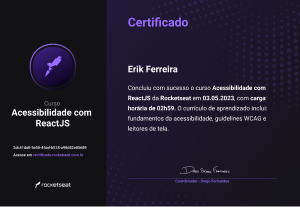
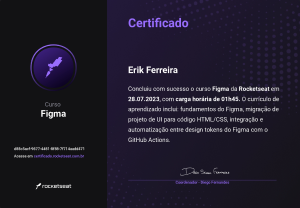
update text resume; update list certificates

diff --git a/src/defaults/certificates.ts b/src/defaults/certificates.ts
@@ -2,61 +2,55 @@ import { CertificateDTO } from "@/dtos/CertificateDTO"
 
 type CertificateDefault = Omit<CertificateDTO, "id">
 
-const description =
-  "Lorem Ipsum is simply dummy text of the printing and typesetting industry. Lorem Ipsum has been the industry standard dummy text ever since the 1500s, when an unknown printer took a galley of type and scrambled it to make a type specimen book."
 const certificatesDefault: CertificateDefault[] = [
   {
     name: "Figma for Devs",
     company: "Rocketseat",
     src: "/certificates/figma.png",
-    href: "https://www.rocketseat.com.br",
-    description,
-    date_of_issue: new Date(),
+    href: "https://app.rocketseat.com.br/certificates/d88c5acf-9677-4481-8f88-7f714aadd471",
+    description:
+      "Aprendi as funcionalidades do Figma voltadas especificamente para desenvolvedores. Este curso foi além do básico, ensinando como utilizar o Figma de forma eficiente e estratégica no fluxo de trabalho de desenvolvimento de software. Aprendi a criar designs de interfaces, utilização de auto layout, padrão de cores, criação de componentes e etc.",
+    date_of_issue: new Date("2023-07-28"),
     src_company: "/certificates/rocketseat.svg",
   },
   {
     name: "Acessibilidade com ReactJS",
     company: "Rocketseat",
-    src: "/certificates/figma.png",
-    href: "https://www.rocketseat.com.br",
-    description,
-    date_of_issue: new Date(),
+    src: "/certificates/accessibility.png",
+    href: "https://app.rocketseat.com.br/certificates/2dc41da8-5a50-44ad-b518-a98d82a00689",
+    description:
+      "Neste curso, mergulhei profundamente na construção de aplicações web com ReactJS. Aprendi a implementar práticas e técnicas cruciais para tornar minhas interfaces mais inclusivas e acessíveis a todos os usuários. Além disso, explorei a utilização de tags semânticas, estratégias de navegação e otimização de telas.",
+    date_of_issue: new Date("2023-05-03"),
     src_company: "/certificates/rocketseat.svg",
   },
   {
     name: "Apps Desktop com ElectronJS",
     company: "Rocketseat",
-    src: "/certificates/figma.png",
-    href: "https://www.rocketseat.com.br",
-    description,
-    date_of_issue: new Date(),
+    src: "/certificates/electron.png",
+    href: "https://app.rocketseat.com.br/certificates/e566623f-b427-4e82-abe4-f4346386ebc2",
+    description:
+      "Este curso abrangeu desde os fundamentos até técnicas avançadas, possibilitando a construção de aplicativos nativos para Windows, macOS e Linux. O objetivo do projeto construído era criar arquivos para anotações que são salvos localmente na máquina. Através dele, aprendi a trabalhar com as camadas do Electron (Main, Preload e Renderer) e a utilizar algumas funcionalidades nativas, como o menu tray.",
+    date_of_issue: new Date("2023-05-16"),
     src_company: "/certificates/rocketseat.svg",
   },
   {
     name: "Ignite ReactJS",
     company: "Rocketseat",
-    src: "/certificates/figma.png",
-    href: "https://www.rocketseat.com.br",
-    description,
-    date_of_issue: new Date(),
+    src: "/certificates/ignite-react.png",
+    href: "https://app.rocketseat.com.br/certificates/367015e9-a7b1-458c-bf23-ed4d00d8131c",
+    description:
+      "Aprofundei-me no ecossistema ReactJS com o programa Ignite. Este curso foi uma imersão completa em práticas avançadas de desenvolvimento web, abrangendo desde conceitos fundamentais até tópicos mais complexos. Desenvolvi aplicações web escaláveis, explorando temas como gerenciamento de estado avançado, otimização de performance e integração de bibliotecas populares para criar projetos robustos e modernos",
+    date_of_issue: new Date("2023-07-26"),
     src_company: "/certificates/rocketseat.svg",
   },
   {
-    name: "Testes",
+    name: "Java",
     company: "Rocketseat",
-    src: "/certificates/figma.png",
-    href: "https://www.rocketseat.com.br",
-    description,
-    date_of_issue: new Date(),
-    src_company: "/certificates/rocketseat.svg",
-  },
-  {
-    name: "Nodejs",
-    company: "Rocketseat",
-    src: "/certificates/figma.png",
-    href: "https://www.rocketseat.com.br",
-    description,
-    date_of_issue: new Date(),
+    src: "/certificates/java.png",
+    href: "https://app.rocketseat.com.br/certificates/24256402-11a4-44be-933c-c6c8dcf62b8d",
+    description:
+      "Entrei no mundo da programação Java desenvolvendo um aplicativo de lista de tarefas (to do). Este curso ofereceu uma introdução sólida aos princípios essenciais da linguagem Java, abordando desde variáveis e estruturas de controle. Aprendi a construir uma aplicação funcional, aplicando conhecimentos práticos em um projeto real.",
+    date_of_issue: new Date("2023-10-15"),
     src_company: "/certificates/rocketseat.svg",
   },
 ]

diff --git a/src/components/page/Resume.tsx b/src/components/page/Resume.tsx
@@ -41,14 +41,15 @@ export function Resume({ className, ...rest }: ResumeProps) {
             </span>
           </h2>
 
-          <p className="text-lg leading-none font-semibold">
+          <p className="text-lg leading-tight font-semibold">
             Se você me ver em uma luta com um urso, reze pelo urso
           </p>
 
           <span className="text-lg font-bold text-slate-600 flex gap-1">
             O código deste site está disponível em
             <Link
-              href="https://github.com/erik-ferreira"
+              href="https://github.com/erik-ferreira/portfolio"
+              target="_blank"
               label="Github"
               className="text-slate-400"
             />
@@ -62,12 +63,13 @@ export function Resume({ className, ...rest }: ResumeProps) {
             Um pouco sobre mim
           </h2>
           <p className="text-base">
-            Lorem Ipsum is simply dummy text of the printing and typesetting
-            industry. Lorem Ipsum has been the industry standard dummy text ever
-            since the 1500s, when an unknown printer took a galley of type and
-            scrambled it to make a type specimen book. It has survived not only
-            five centuries, but also the leap into electronic typesetting,
-            remaining essentially unchanged.
+            Olá, sou um desenvolvedor front-end com 2 anos de experiência e moro
+            no Ceará, Brasil. Sou apaixonado pela stack do Javascript e estou me
+            especializando em React e React Native para criação de interfaces
+            totalmente responsivas com a melhor experiência possível para o
+            usuário. Sou dedicado e organizado, também ja trabalhei com outras
+            tecnologias como Next, Typescript, Tailwindcss, Socket.io, Zod e
+            etc. Navegue pelo site para conhecer um pouco mais sobre mim.
           </p>
           <Link href="/about" label="Ler mais" className="text-slate-500" />
         </div>
